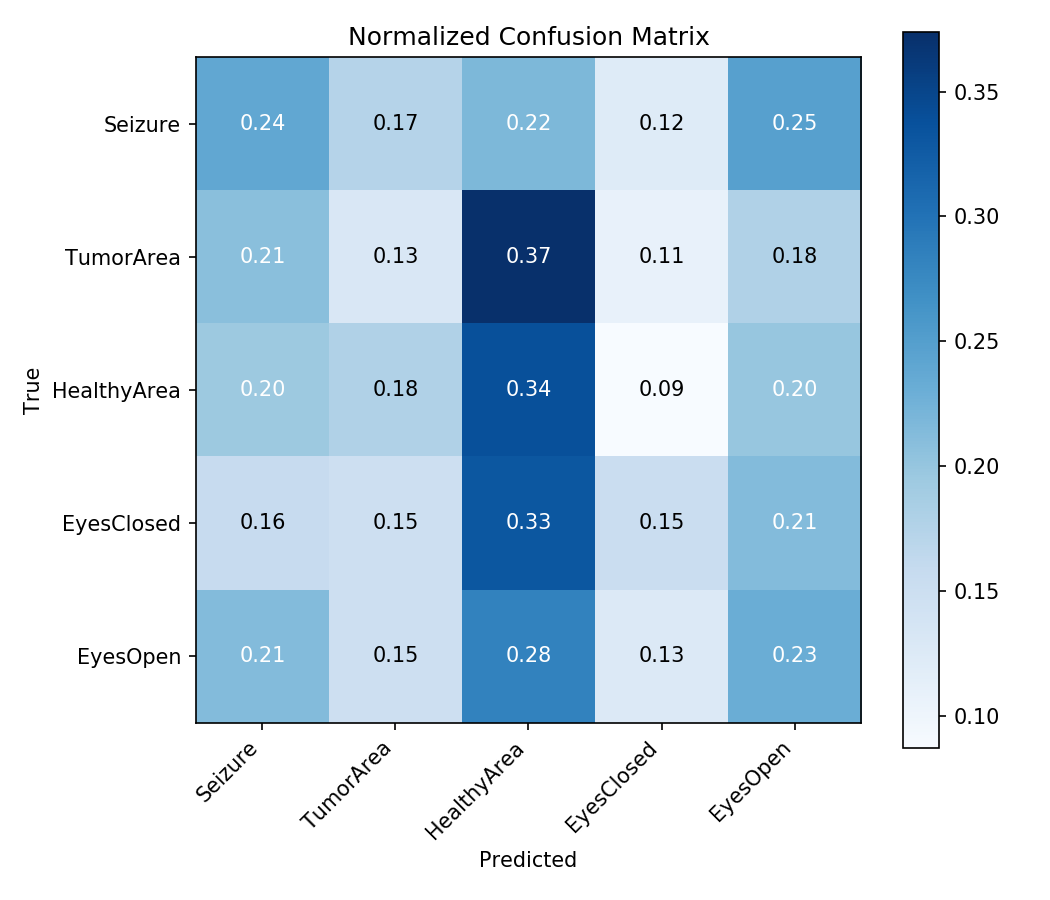
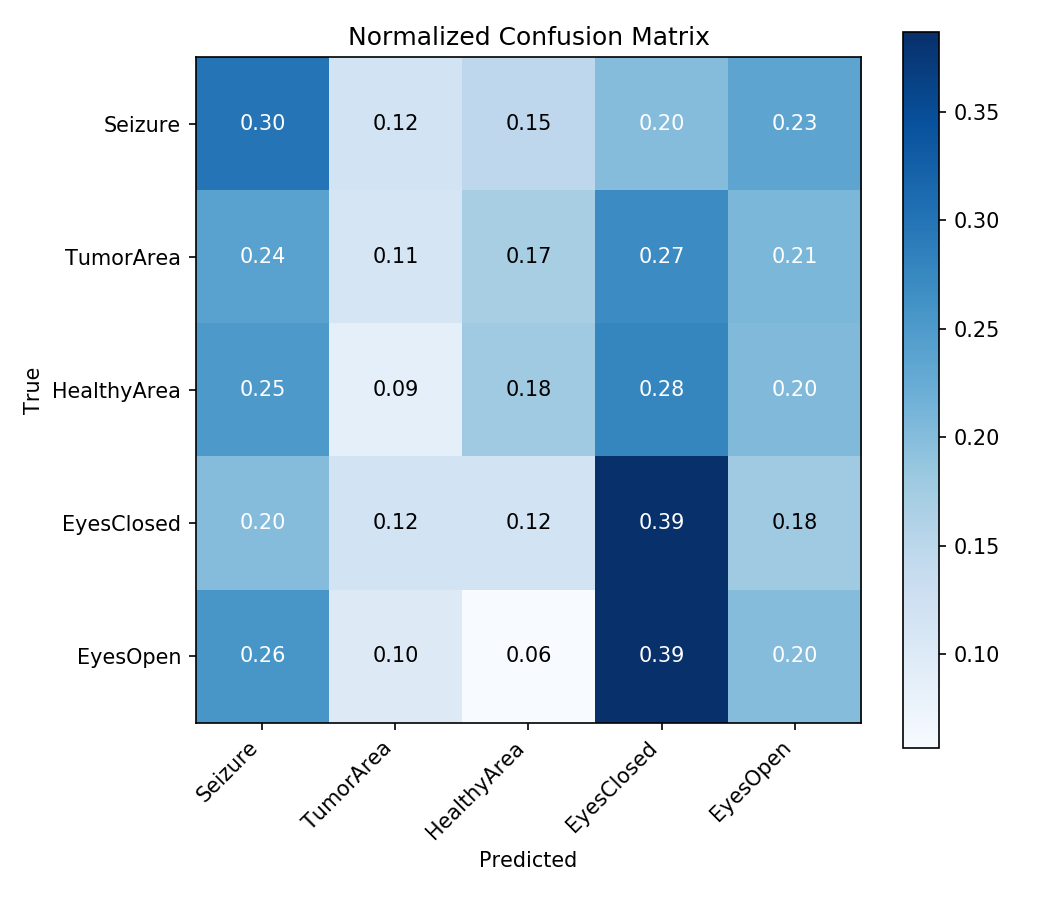
completed etl for mortality

diff --git a/code/etl_mortality_data.py b/code/etl_mortality_data.py
@@ -20,6 +20,11 @@ def convert_icd9(icd9_object):
 	icd9_str = str(icd9_object)
 	# TODO: Extract the the first 3 or 4 alphanumeric digits prior to the decimal point from a given ICD-9 code.
 	# TODO: Read the homework description carefully.
+
+	## ============================== ##
+	# Extracting only alphanumeric characters before the decimal point, max 4
+	icd9_str = icd9_str.split('.')[0]  # take everything before decimal if present
+	converted = ''.join(c for c in icd9_str if c.isalnum())[:4]
 	converted = icd9_str
 
 	return converted
@@ -30,9 +35,9 @@ def build_codemap(df_icd9, transform):
 	:return: Dict of code map {main-digits of ICD9: unique feature ID}
 	"""
 	# TODO: We build a code map using ONLY train data. Think about how to construct validation/test sets using this.
-	df_digits = df_icd9['ICD9_CODE'].apply(transform)
-
-	codemap = {123: 0, 456: 1}
+	df_digits = df_icd9['ICD9_CODE'].apply(transform).unique()
+	codemap = {code: idx for idx, code in enumerate(sorted(df_digits))}
+	# codemap = {123: 0, 456: 1}
 	return codemap
 
 
@@ -46,22 +51,52 @@ def create_dataset(path, codemap, transform):
 	# TODO: 1. Load data from the three csv files
 	# TODO: Loading the mortality file is shown as an example below. Load two other files also.
 	df_mortality = pd.read_csv(os.path.join(path, "MORTALITY.csv"))
+	df_admissions  = pd.read_csv(os.path.join(path, "ADMISSIONS.csv"))
+	df_dx_codes   = pd.read_csv(os.path.join(path, "DIAGNOSES_ICD.csv"))
 
 	# TODO: 2. Convert diagnosis code in to unique feature ID.
 	# TODO: HINT - use 'transform(convert_icd9)' you implemented and 'codemap'.
+	df_dx_codes['MAIN_CODE'] = df_dx_codes['ICD9_CODE'].apply(transform)
+	df_dx_codes = df_dx_codes[df_dx_codes['MAIN_CODE'].isin(codemap)]
+	df_dx_codes['FEATURE_ID'] = df_dx_codes['MAIN_CODE'].map(codemap)
 
 	# TODO: 3. Group the diagnosis codes for the same visit.
+	df_admissions['ADMITTIME'] = pd.to_datetime(df_admissions['ADMITTIME'])
+	df_dx_codes = df_dx_codes.merge(
+		df_admissions[['SUBJECT_ID', 'HADM_ID', 'ADMITTIME']],
+		on=['SUBJECT_ID', 'HADM_ID'],
+		how='left'
+	)
 
 	# TODO: 4. Group the visits for the same patient.
+	pt_grouped_visits = (
+		df_dx_codes
+		.groupby(['SUBJECT_ID', 'ADMITTIME'])['FEATURE_ID']
+		.apply(list)
+		.reset_index()
+	)
 
 	# TODO: 5. Make a visit sequence dataset as a List of patient Lists of visit Lists
 	# TODO: Visits for each patient must be sorted in chronological order.
+	pt_grouped_visits = pt_grouped_visits.sort_values(['SUBJECT_ID', 'ADMITTIME'])
+	patient_sequences = (
+		pt_grouped_visits
+		.groupby('SUBJECT_ID')['FEATURE_ID']
+		.apply(list)
+		.reset_index()
+	)
 
 	# TODO: 6. Make patient-id List and label List also.
 	# TODO: The order of patients in the three List output must be consistent.
-	patient_ids = [0, 1, 2]
-	labels = [1, 0, 1]
-	seq_data = [[[0, 1], [2]], [[1, 3, 4], [2, 5]], [[3], [5]]]
+	# patient_ids = [0, 1, 2]
+	# labels = [1, 0, 1]
+	# seq_data = [[[0, 1], [2]], [[1, 3, 4], [2, 5]], [[3], [5]]]
+
+	df_merged = df_mortality.merge(patient_sequences, on='SUBJECT_ID', how='left')
+
+	patient_ids = df_merged['SUBJECT_ID'].tolist()
+	labels      = df_merged['MORTALITY'].tolist()
+	seq_data    = df_merged['FEATURE_ID'].tolist()
 	return patient_ids, labels, seq_data
 
 

diff --git a/code/train_seizure.py b/code/train_seizure.py
@@ -22,7 +22,7 @@ os.makedirs(PATH_OUTPUT, exist_ok=True)
 
 # Some parameters
 MODEL_TYPE = 'MLP'  # TODO: Change this to 'MLP', 'CNN', or 'RNN' according to your task
-NUM_EPOCHS = 1
+NUM_EPOCHS = 30
 BATCH_SIZE = 32
 USE_CUDA = False  # Set 'True' if you want to use GPU
 NUM_WORKERS = 0  # Number of threads used by DataLoader. You can adjust this according to your machine spec.
